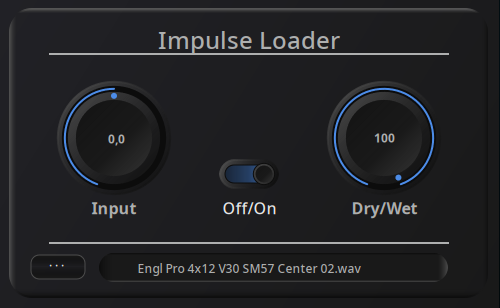
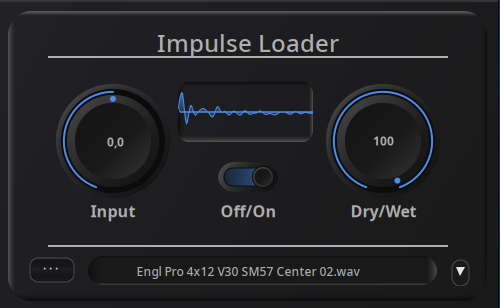
Implement wave view display

diff --git a/ImpulseLoader/ImpulseLoader.c b/ImpulseLoader/ImpulseLoader.c
@@ -6,20 +6,27 @@
 
 #define TAB_ELEMENTS 0
 
+#define OSCSIZE 256
+
+#define RMSSIZE 16
+
 
 #define PLUGIN_UI_URI "urn:brummer:ImpulseLoader_ui"
 
+#include <sndfile.h>
 
 #include "lv2_plugin.h"
 
 #ifdef USE_ATOM
 
 #define XLV2__IRFILE "urn:brummer:ImpulseLoader#irfile"
+#define XLV2__GUI "urn:brummer:ImpulseLoader#gui"
 #define OBJ_BUF_SIZE 1024
 
 
 typedef struct {
     LV2_URID xlv2_irfile;
+    LV2_URID xlv2_gui;
     LV2_URID atom_Object;
     LV2_URID atom_Int;
     LV2_URID atom_Float;
@@ -40,13 +47,17 @@ typedef struct {
     LV2_Atom_Forge forge;
     X11LV2URIs   uris;
     FilePicker *filepicker;
+    Widget_t *wview;
     char *filename;
     char *fname;
     char *dir_name;
+    float *osc;
+    int ir_data_size;
 } X11_UI_Private_t;
 
 static inline void map_x11ui_uris(LV2_URID_Map* map, X11LV2URIs* uris) {
     uris->xlv2_irfile = map->map(map->handle, XLV2__IRFILE);
+    uris->xlv2_gui = map->map(map->handle, XLV2__GUI);
     uris->atom_Object = map->map(map->handle, LV2_ATOM__Object);
     uris->atom_Int = map->map(map->handle, LV2_ATOM__Int);
     uris->atom_Float = map->map(map->handle, LV2_ATOM__Float);
@@ -248,6 +259,39 @@ void first_loop(X11_UI *ui) {
     notify_dsp(ui);
 }
 
+static float *load_ir_data(X11_UI *ui) {
+    X11_UI_Private_t *ps = (X11_UI_Private_t*)ui->private_ptr;
+    // struct to hold sound file info
+    SF_INFO info;
+    info.format = 0;
+    ps->ir_data_size = 0;
+
+    // Open the wave file for reading
+    SNDFILE *sndfile = sf_open(ps->filename, SFM_READ, &info);
+
+    if (!sndfile) {
+        fprintf(stderr, "Error: could not open file\n");;
+        return NULL;
+    }
+    // allocate buffer to read all samples in
+    float *samples = (float*) malloc(info.frames * info.channels * sizeof(float));
+    // read soundfile into buffer
+    sf_read_float(sndfile, &samples[0], info.frames * info.channels);
+    sf_close(sndfile);
+    ps->ir_data_size = info.frames;
+    // get mono samples from first channel when needed
+    if (info.channels > 1) {
+        int i = 0;
+        float *msamples =  (float*) malloc(info.frames * sizeof(float));
+        for (;i<info.frames;i++) {
+            msamples[i] = samples[i *info.channels];
+        }
+        free(samples);
+        return msamples;
+    }
+    return samples;
+}
+
 static void file_menu_callback(void *w_, void* user_data) {
     Widget_t *w = (Widget_t*)w_;
     Widget_t *p = (Widget_t*)w->parent;
@@ -303,6 +347,9 @@ void plugin_create_controller_widgets(X11_UI *ui, const char * plugin_uri) {
     ps->filename = strdup("None");
     ps->dir_name = NULL;
     ps->fname = NULL;
+    ps->osc = (float*) malloc(OSCSIZE* sizeof(float));
+    memset(ps->osc,0,OSCSIZE* sizeof(float));
+    ps->ir_data_size = 0;
     ps->filepicker = (FilePicker*)malloc(sizeof(FilePicker));
     fp_init(ps->filepicker, "/");
 #ifdef __linux__
@@ -323,6 +370,8 @@ void plugin_create_controller_widgets(X11_UI *ui, const char * plugin_uri) {
     ui->widget[0]->parent_struct = (void*)&uris->xlv2_irfile;
     ui->widget[0]->func.user_callback = controller_callback;
 #endif
+    ps->wview = add_lv2_waveview (ps->wview, ui->win, "", ui, 180,  80, 135, 60);
+    set_widget_color(ps->wview, 0, 0, 0.3, 0.55, 0.91, 1.0);
 
     ui->widget[1] = add_lv2_knob (ui->widget[1], ui->win, 3, "Input", ui, 55,  80, 120, 140);
     set_adjustment(ui->widget[1]->adj, 0.0, 0.0, -20.0, 20.0, 0.2, CL_CONTINUOS);
@@ -348,6 +397,7 @@ void plugin_cleanup(X11_UI *ui) {
 #ifdef USE_ATOM
     X11_UI_Private_t *ps = (X11_UI_Private_t*)ui->private_ptr;
     fp_free(ps->filepicker);
+    free(ps->osc);
     free(ps->fname);
     free(ps->filename);
     free(ps->dir_name);
@@ -418,6 +468,10 @@ void plugin_port_event(LV2UI_Handle handle, uint32_t port_index,
                                 rebuild_file_menu(ui);
                             }
                             free(dn);
+                            float *irdata = load_ir_data(ui);
+                            if (ps->ir_data_size)
+                                update_waveview(ps->wview,irdata, ps->ir_data_size);
+                            free(irdata);
                             expose_widget(ui->win);
                         }
                     }

diff --git a/ImpulseLoader/ImpulseLoader.cpp b/ImpulseLoader/ImpulseLoader.cpp
@@ -23,6 +23,7 @@
 
 #define PLUGIN_URI "urn:brummer:ImpulseLoader"
 #define XLV2__IRFILE "urn:brummer:ImpulseLoader#irfile"
+#define XLV2__GUI "urn:brummer:ImpulseLoader#gui"
 
 using std::min;
 using std::max;
@@ -57,6 +58,7 @@ private:
     uint32_t bufsize;
     uint32_t cur_bufsize;
     uint32_t s_rate;
+    int ui_run;
     // bypass ramping
     bool needs_ramp_down;
     bool needs_ramp_up;
@@ -84,6 +86,7 @@ private:
     LV2_Atom_Forge_Frame notify_frame;
 
     LV2_URID xlv2_ir_file;
+    LV2_URID xlv2_gui;
     LV2_URID atom_Object;
     LV2_URID atom_Int;
     LV2_URID atom_Float;
@@ -180,6 +183,7 @@ XImpulseLoader::~XImpulseLoader() {
 
 inline void XImpulseLoader::map_uris(LV2_URID_Map* map) {
     xlv2_ir_file = map->map(map->handle, XLV2__IRFILE);
+    xlv2_gui = map->map(map->handle, XLV2__GUI);
     atom_Object = map->map(map->handle, LV2_ATOM__Object);
     atom_Int = map->map(map->handle, LV2_ATOM__Int);
     atom_Float = map->map(map->handle, LV2_ATOM__Float);
@@ -201,6 +205,7 @@ void XImpulseLoader::init_dsp_(uint32_t rate, uint32_t bufsize_)
     plugin1->init(rate);
     plugin2->init(rate);
     s_rate = rate;
+    ui_run = 0;
     if (!rt_policy) rt_policy = SCHED_FIFO;
     // set values for internal ramping
     ramp_down_step = 32 * (256 * rate) / 48000; 
@@ -268,12 +273,13 @@ void XImpulseLoader::do_work_mono()
     preampconv.configure(ir_file, 1.0, 0, 0, 0, 0, 0);
     while (!preampconv.checkstate());
     if(!preampconv.start(rt_prio, rt_policy)) {
+        ir_file = "";
         printf("preamp impulse convolver update fail\n");
     } else {
-        _execute.store(false, std::memory_order_release);
         needs_ramp_up = true;
-        _notify_ui.store(true, std::memory_order_release);
     }
+    _execute.store(false, std::memory_order_release);
+    _notify_ui.store(true, std::memory_order_release);
 }
 
 inline LV2_Atom* XImpulseLoader::write_set_file(LV2_Atom_Forge* forge, const char* filename) {
@@ -285,7 +291,7 @@ inline LV2_Atom* XImpulseLoader::write_set_file(LV2_Atom_Forge* forge, const cha
     lv2_atom_forge_key(forge, patch_property);
     lv2_atom_forge_urid(forge, xlv2_ir_file);
     lv2_atom_forge_key(forge, patch_value);
-    lv2_atom_forge_path(forge, filename, strlen(filename));
+    lv2_atom_forge_path(forge, filename, strlen(filename) + 1);
 
     lv2_atom_forge_pop(forge, &frame);
     return set;
@@ -321,8 +327,7 @@ void XImpulseLoader::run_dsp_(uint32_t n_samples)
         if (lv2_atom_forge_is_object_type(&forge, ev->body.type)) {
             const LV2_Atom_Object* obj = (LV2_Atom_Object*)&ev->body;
             if (obj->body.otype == patch_Get) {
-                if (!ir_file.empty())
-                    write_set_file(&forge, ir_file.data());
+                write_set_file(&forge, ir_file.data());
             } else if (obj->body.otype == patch_Set) {
                 const LV2_Atom* file_path = read_set_file(obj);
                 if (file_path) {

diff --git a/ImpulseLoader/lv2_plugin.cc b/ImpulseLoader/lv2_plugin.cc
@@ -613,6 +613,67 @@ Widget_t* add_lv2_file_button(Widget_t *w, Widget_t *p, PortIndex index, const c
     return w;
 }
 
+void wavePattern(cairo_t *cr, int x, int y, int h) {
+    cairo_pattern_t *pat = cairo_pattern_create_linear (x, y, x, h);
+    cairo_pattern_add_color_stop_rgba
+        (pat, 0, 0.3, 0.55, 0.91, 1.0 * 0.8);
+    cairo_pattern_add_color_stop_rgba
+        (pat, 0.5, 0.3, 0.55, 0.91, 1.0 * 0.4);
+    cairo_pattern_add_color_stop_rgba
+        (pat, 1, 0.3, 0.55, 0.91, 1.0 * 0.1);
+    cairo_pattern_set_extend(pat, CAIRO_EXTEND_REFLECT);
+    cairo_set_source(cr, pat);
+    cairo_fill_preserve (cr);
+    cairo_pattern_destroy (pat);
+
+}
+
+void draw_waveview(void *w_, void* user_data) {
+    Widget_t *w = (Widget_t*)w_;
+    WaveView_t *wave_view = (WaveView_t*)w->private_struct;
+    Metrics_t metrics;
+    os_get_window_metrics(w, &metrics);
+    int width_t = metrics.width;
+    int height_t = metrics.height;
+    if (!metrics.visible) return;
+    int half_height_t = height_t/2;
+
+
+    cairo_set_line_width(w->crb,1);
+    roundrec(w->crb, 0, 0, width_t, height_t, height_t * 0.2);
+    boxShadowInset(w->crb,0, 0, width_t, height_t, true);
+    cairo_stroke(w->crb);
+    cairo_move_to(w->crb,2,half_height_t);
+    use_fg_color_scheme(w, NORMAL_);
+    cairo_line_to(w->crb, width_t, half_height_t);
+    cairo_stroke(w->crb);
+
+    if (wave_view->size<1) return;
+    float step = (float)(width_t-10)/(float)wave_view->size+1;
+    float lstep = (float)(half_height_t-10.0);
+    cairo_set_line_width(w->cr,1);
+    use_fg_color_scheme(w, NORMAL_);
+    int i = 0;
+    for (;i<wave_view->size;i++) {
+        cairo_line_to(w->crb, (float)(i+0.5)*step,(float)(half_height_t)+ -wave_view->wave[i]*lstep);
+    }
+    cairo_line_to(w->crb, width_t, half_height_t);
+    cairo_line_to(w->crb, 2, half_height_t);
+    cairo_close_path(w->crb);
+    wavePattern(w->crb, 0, 0, half_height_t);
+    cairo_fill_preserve(w->crb);
+    use_fg_color_scheme(w, NORMAL_);
+    cairo_stroke(w->crb);
+}
+
+Widget_t* add_lv2_waveview(Widget_t *w, Widget_t *p, const char * label,
+                                X11_UI* ui, int x, int y, int width, int height) {
+    w = add_waveview(p, label, x, y, width, height);
+    w->parent_struct = ui;
+    w->func.expose_callback = draw_waveview;
+    return w;
+}
+
 // init the xwindow and return the LV2UI handle
 static LV2UI_Handle instantiate(const LV2UI_Descriptor * descriptor,
             const char * plugin_uri, const char * bundle_path,

diff --git a/ImpulseLoader/lv2_plugin.h b/ImpulseLoader/lv2_plugin.h
@@ -85,6 +85,9 @@ const char* plugin_set_name();
 // create all needed controller 
 void plugin_create_controller_widgets(X11_UI *ui, const char * plugin_uri);
 
+Widget_t* add_lv2_waveview(Widget_t *w, Widget_t *p, const char * label,
+                                X11_UI* ui, int x, int y, int width, int height);
+
 Widget_t* add_lv2_button(Widget_t *w, Widget_t *p, const char * label,
                                 X11_UI* ui, int x, int y, int width, int height);
 

diff --git a/README.md b/README.md
@@ -4,6 +4,8 @@ This is a simple, mono, IR-File loader/convolution LV2 plug.
 
 ![ImpulseLoader](https://raw.githubusercontent.com/brummer10/ImpulseLoader.lv2/master/ImpulseLoader.png)
 
+A Stereo version of ImpulseLoader is here [ImpulseLoaderStereo](https://github.com/brummer10/ImpulseLoaderStereo.lv2)
+
 ## Supported File Formats:
 
 - WAF
